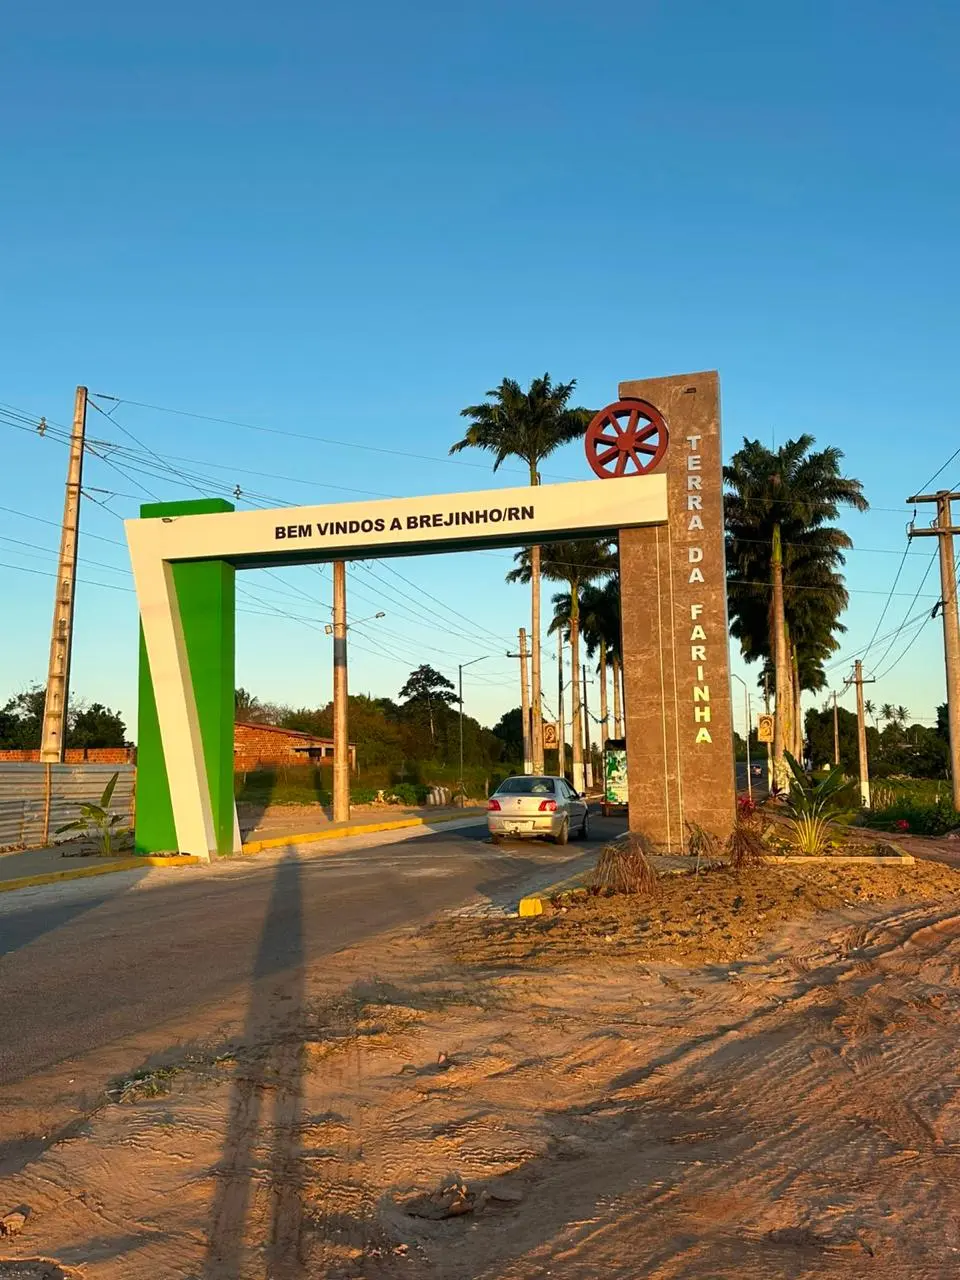
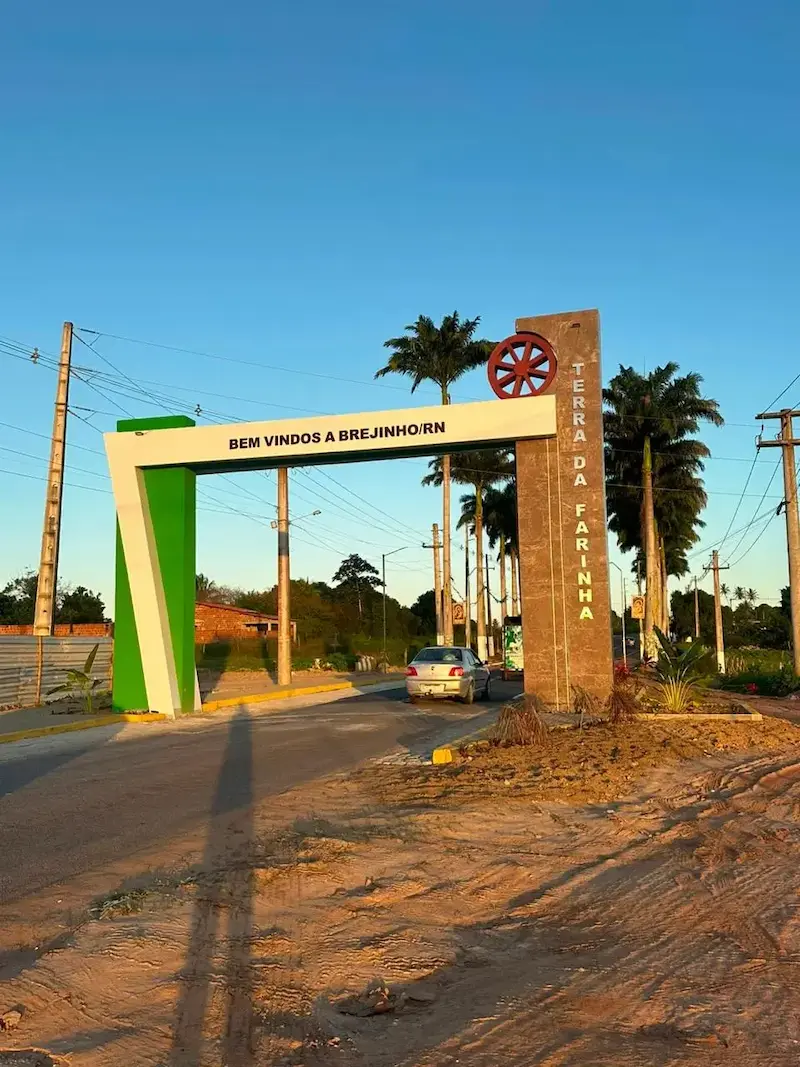
feat: ajustyng font

Changed region(s): [[0.2812, 0.4021, 0.5, 0.433], [0.8125, 0.5876, 0.8438, 0.6186], [0.625, 0.5876, 0.6562, 0.6186]]

diff --git a/src/styles/globalStyle.ts b/src/styles/globalStyle.ts
@@ -1,7 +1,7 @@
 import { createGlobalStyle } from 'styled-components'
 
 export const GlobalStyle = createGlobalStyle`
-@import url('https://fonts.googleapis.com/css2?family=Poppins:ital,wght@0,100;0,200;0,300;0,400;0,500;0,600;0,700;0,800;0,900;1,100;1,200;1,300;1,400;1,500;1,600;1,700;1,800;1,900&display=swap');
+/* Removido o @import daqui para o navegador carregar direto pelo HTML */
 
 * {
     margin: 0;
